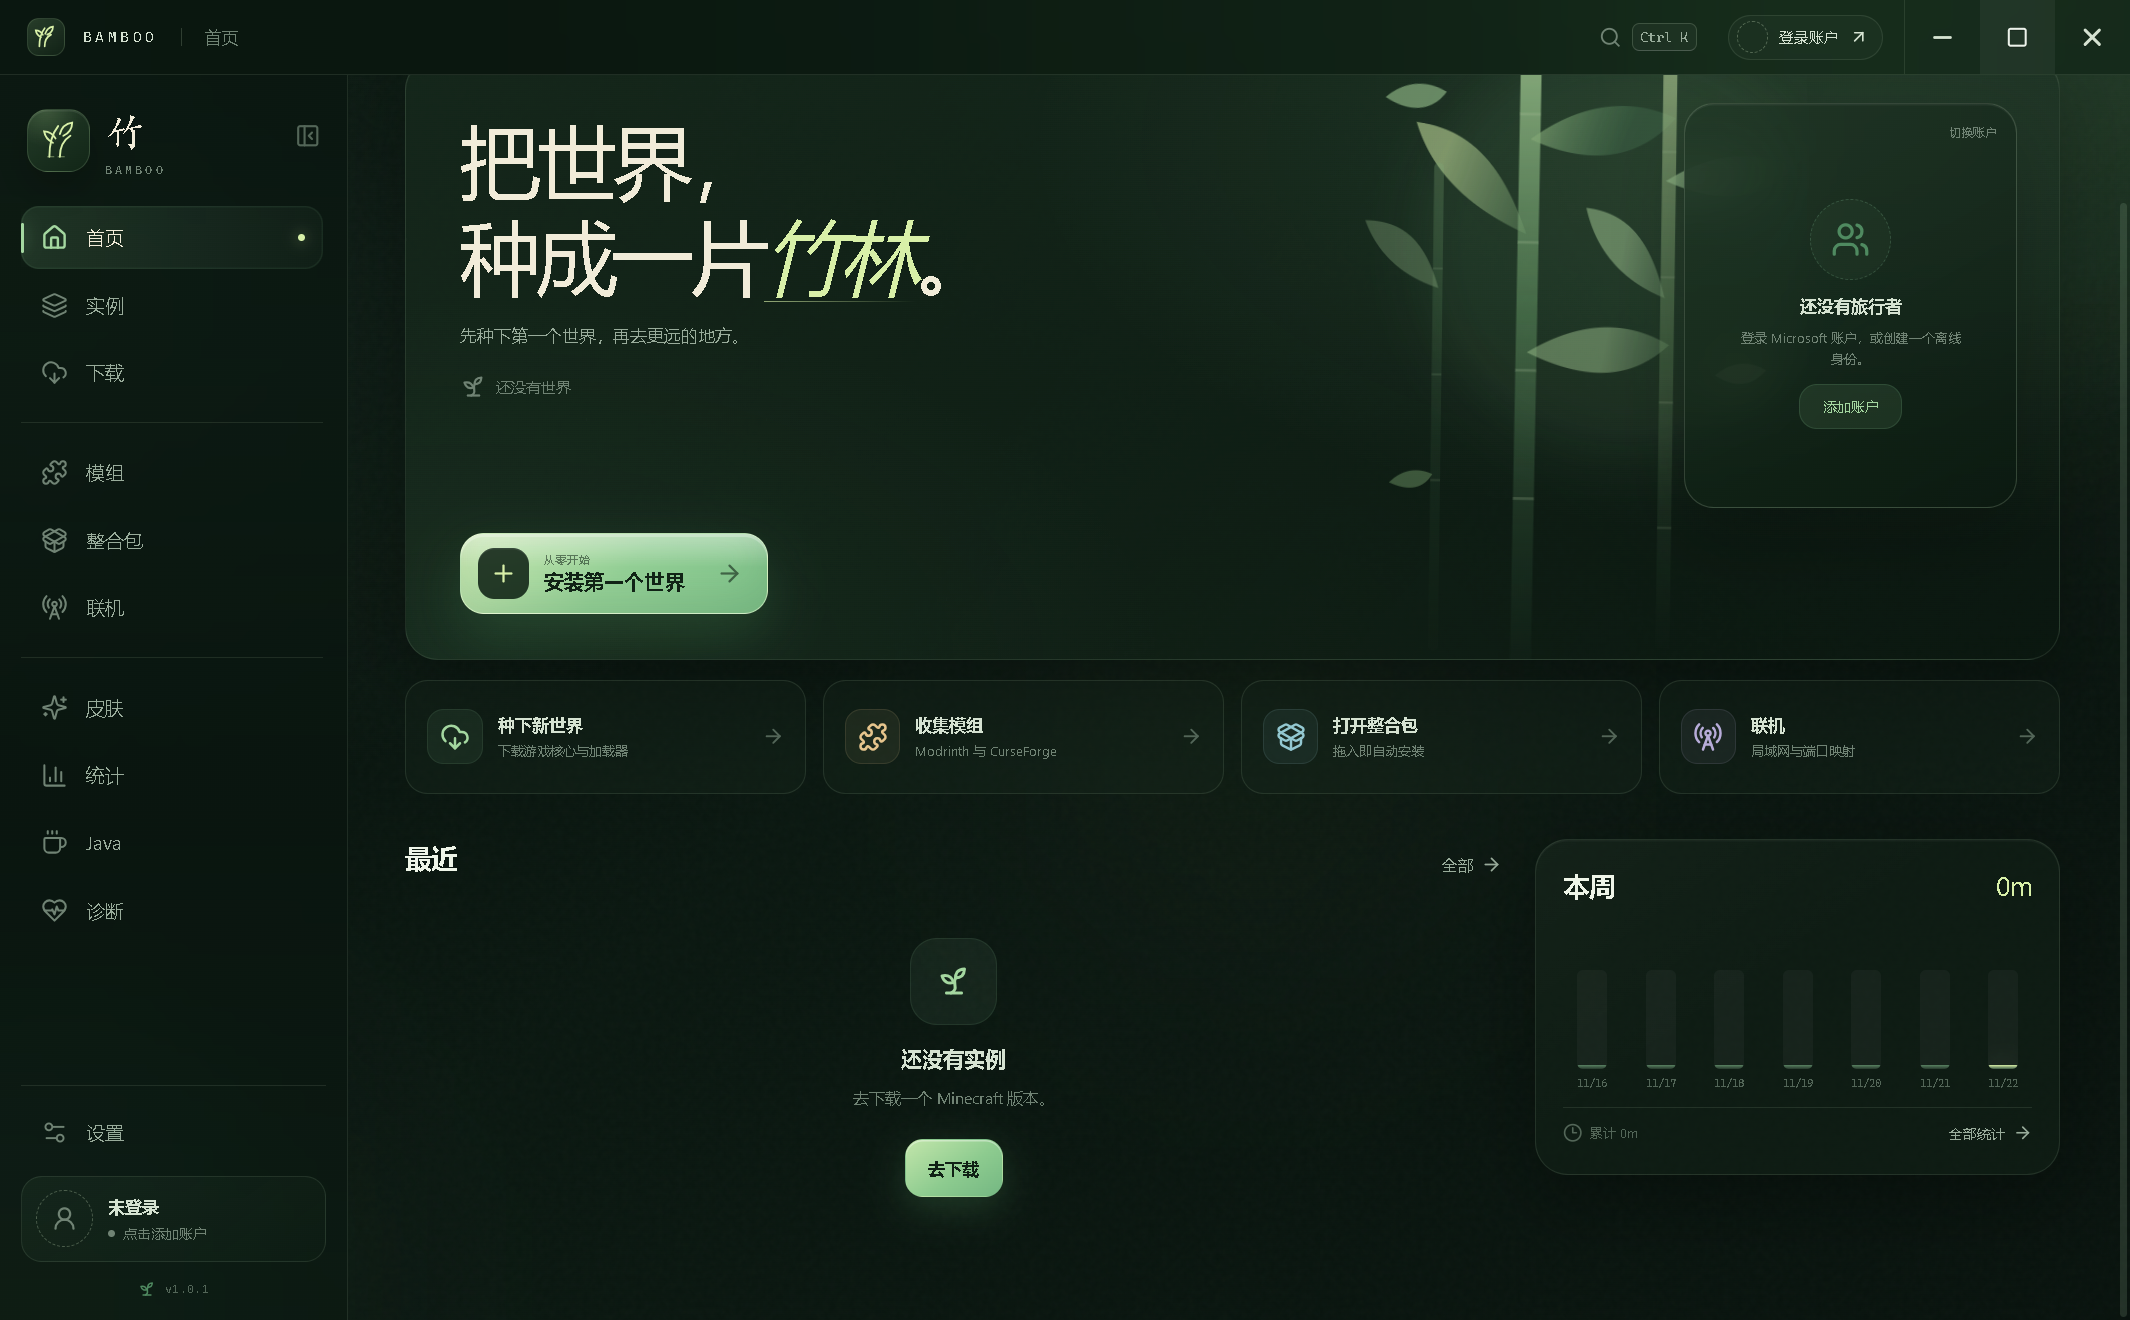
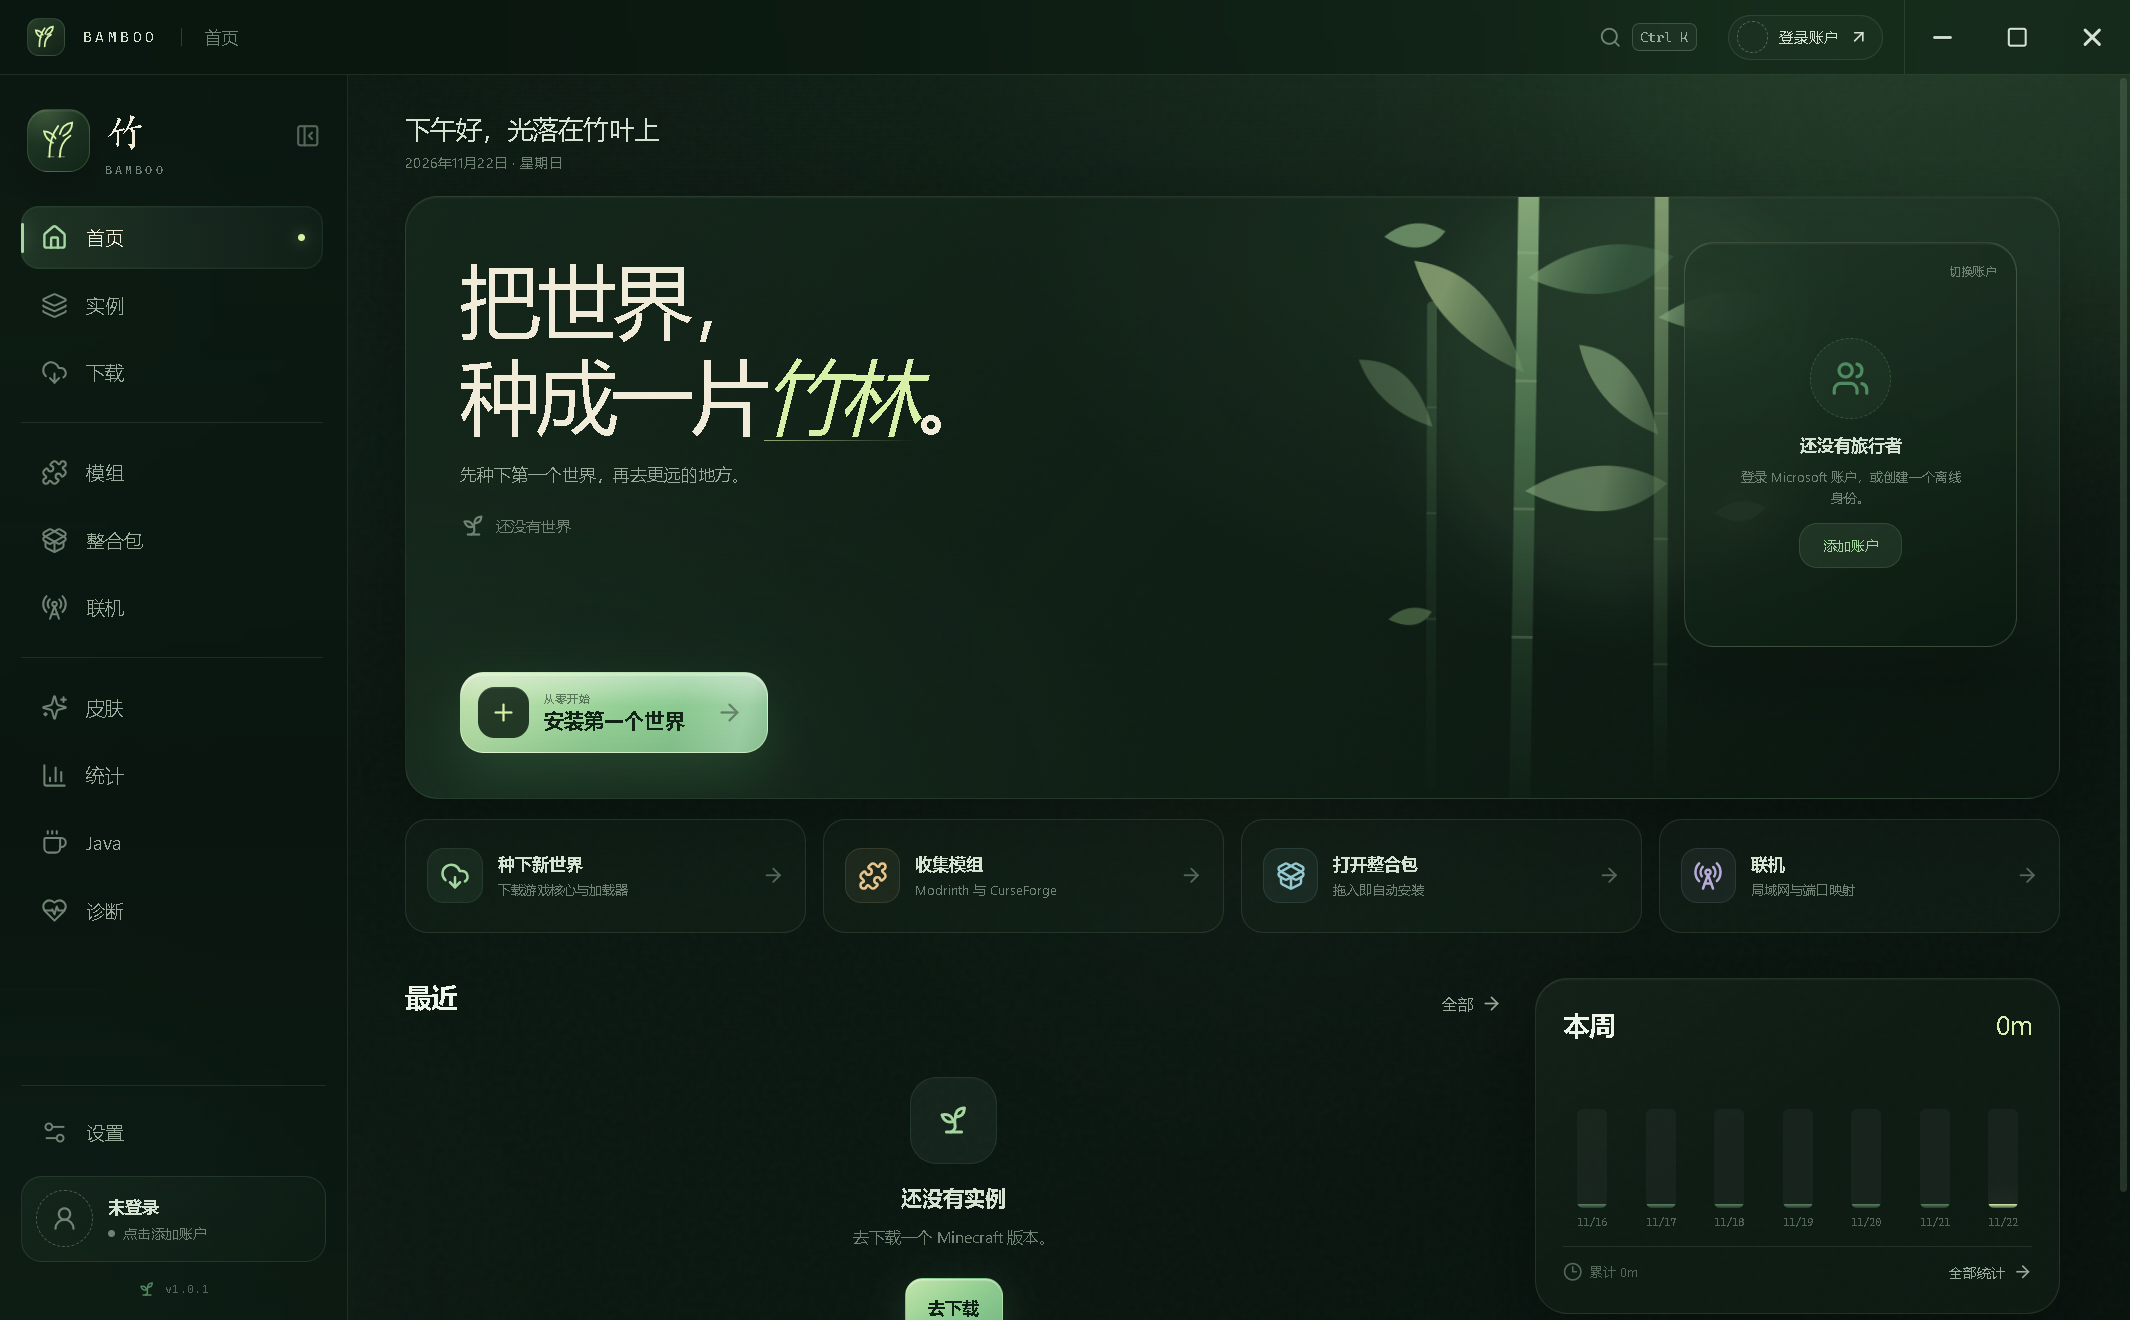
Release Bamboo Launcher v1.0.1

diff --git a/src/renderer/src/styles/global.css b/src/renderer/src/styles/global.css
@@ -618,8 +618,8 @@ kbd {
   background: linear-gradient(180deg, rgba(8, 19, 13, 0.44), rgba(8, 18, 12, 0.26));
   backdrop-filter: blur(30px) saturate(1.1);
   transition:
-    width 0.42s cubic-bezier(0.22, 1, 0.36, 1),
-    padding 0.42s cubic-bezier(0.22, 1, 0.36, 1);
+    width 0.48s cubic-bezier(0.4, 0, 0.2, 1),
+    padding 0.48s cubic-bezier(0.4, 0, 0.2, 1);
   overflow: hidden;
   will-change: width;
   user-select: none;
@@ -722,7 +722,7 @@ kbd {
 .collapse-icon {
   display: grid;
   place-items: center;
-  transition: transform 0.4s cubic-bezier(0.22, 1, 0.36, 1);
+  transition: transform 0.48s cubic-bezier(0.4, 0, 0.2, 1);
 }
 
 .collapse-icon.flipped {
@@ -730,18 +730,18 @@ kbd {
 }
 
 .sidebar.compact .sidebar-brand {
-  justify-content: center;
-  padding-bottom: 27px;
+  justify-content: flex-start;
+  padding-bottom: 18px;
 }
 
 .sidebar.compact .sidebar-collapse {
-  left: 50%;
-  right: auto;
-  top: auto;
-  bottom: 1px;
-  width: 21px;
-  height: 21px;
-  transform: translateX(-50%);
+  left: auto;
+  right: -6px;
+  top: 8px;
+  bottom: auto;
+  width: 20px;
+  height: 20px;
+  transform: none;
   background: rgba(8, 18, 12, 0.78);
   border: 1px solid var(--line);
   border-radius: 7px;
@@ -855,12 +855,12 @@ kbd {
 }
 
 .sidebar.compact .nav-item {
-  justify-content: center;
+  justify-content: flex-start;
   gap: 0;
-  width: 48px;
-  margin-left: auto;
-  margin-right: auto;
-  padding: 0;
+  width: 100%;
+  margin-left: 0;
+  margin-right: 0;
+  padding: 0 12px;
   height: 44px;
 }
 
@@ -884,6 +884,10 @@ kbd {
   top: 13px;
   bottom: 13px;
   left: -1px;
+}
+
+.sidebar.compact .sidebar-account {
+  width: 100%;
 }
 
 .sidebar-bottom {
@@ -1016,7 +1020,7 @@ kbd {
 }
 
 .sidebar.compact .sidebar-account {
-  justify-content: center;
+  justify-content: flex-start;
   gap: 0;
   padding: 7px;
 }

diff --git a/docs/VERIFICATION.md b/docs/VERIFICATION.md
@@ -197,7 +197,8 @@
 | 更新提示 UI | 模拟 `1.0.2` 时显示“可更新至 v1.0.2”、GitHub 来源、检查 / 下载按钮；toast 提供跳转（见 [update-available.png](screens/update-available.png)） |
 | 联系作者 | 设置页底部显示 `Ti68281@xbkjz.icu` 与 `xiaobao@xbkjz.cn`，点击复制并提示（见 [settings-contact.png](screens/settings-contact.png)） |
 | 自动检查开关 | 设置 → 自动检查更新，默认开启；关闭后启动不发起请求 |
-| GitHub 发布 | 源码提交 `435c446` 之后继续同步最终更新器；Release `v1.0.1` 资产 `Bamboo-Portable-1.0.1.zip`，SHA-256 `55852ed…11ddeb2` |
+| GitHub 发布 | 源码提交 `6f59e6d`；Release `v1.0.1` 资产 `Bamboo-Portable-1.0.1.zip`，SHA-256 `55852ed…11ddeb2` |
+| 最终产物更新检查 | 打包版返回 `source=github`、`latestVersion=1.0.1`、`available=false`，下载地址指向 GitHub Release 资产 |
 
 > 更新下载/安装未做端到端验证：仓库当前没有发布资产，且不能为了测试伪造线上 release。检查逻辑、更新 UI 与下载代码路径已分别验证。
 
